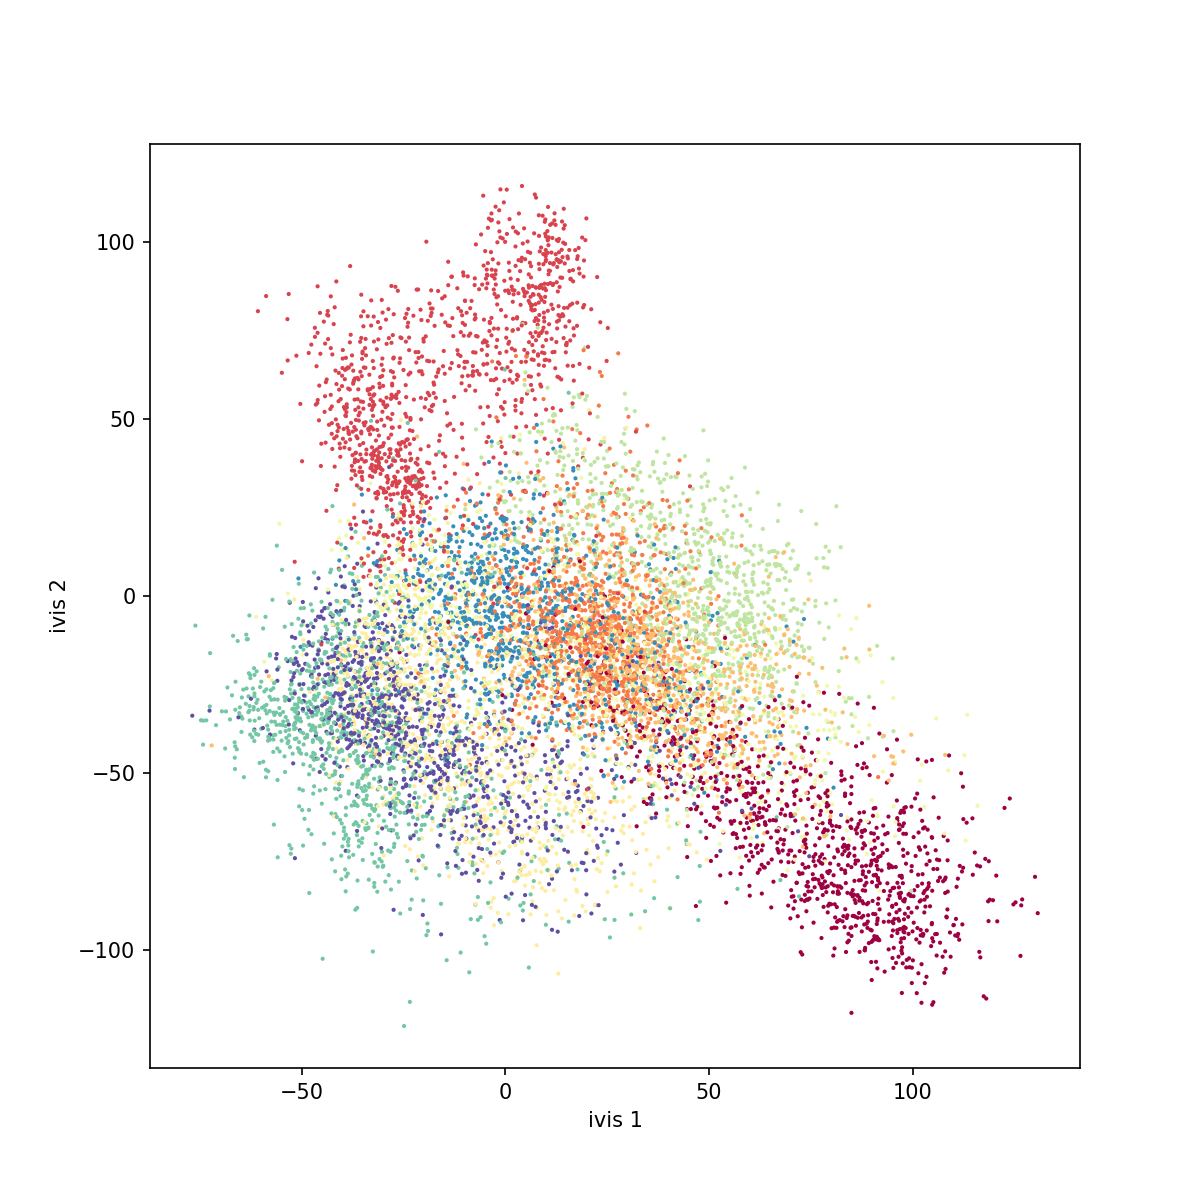
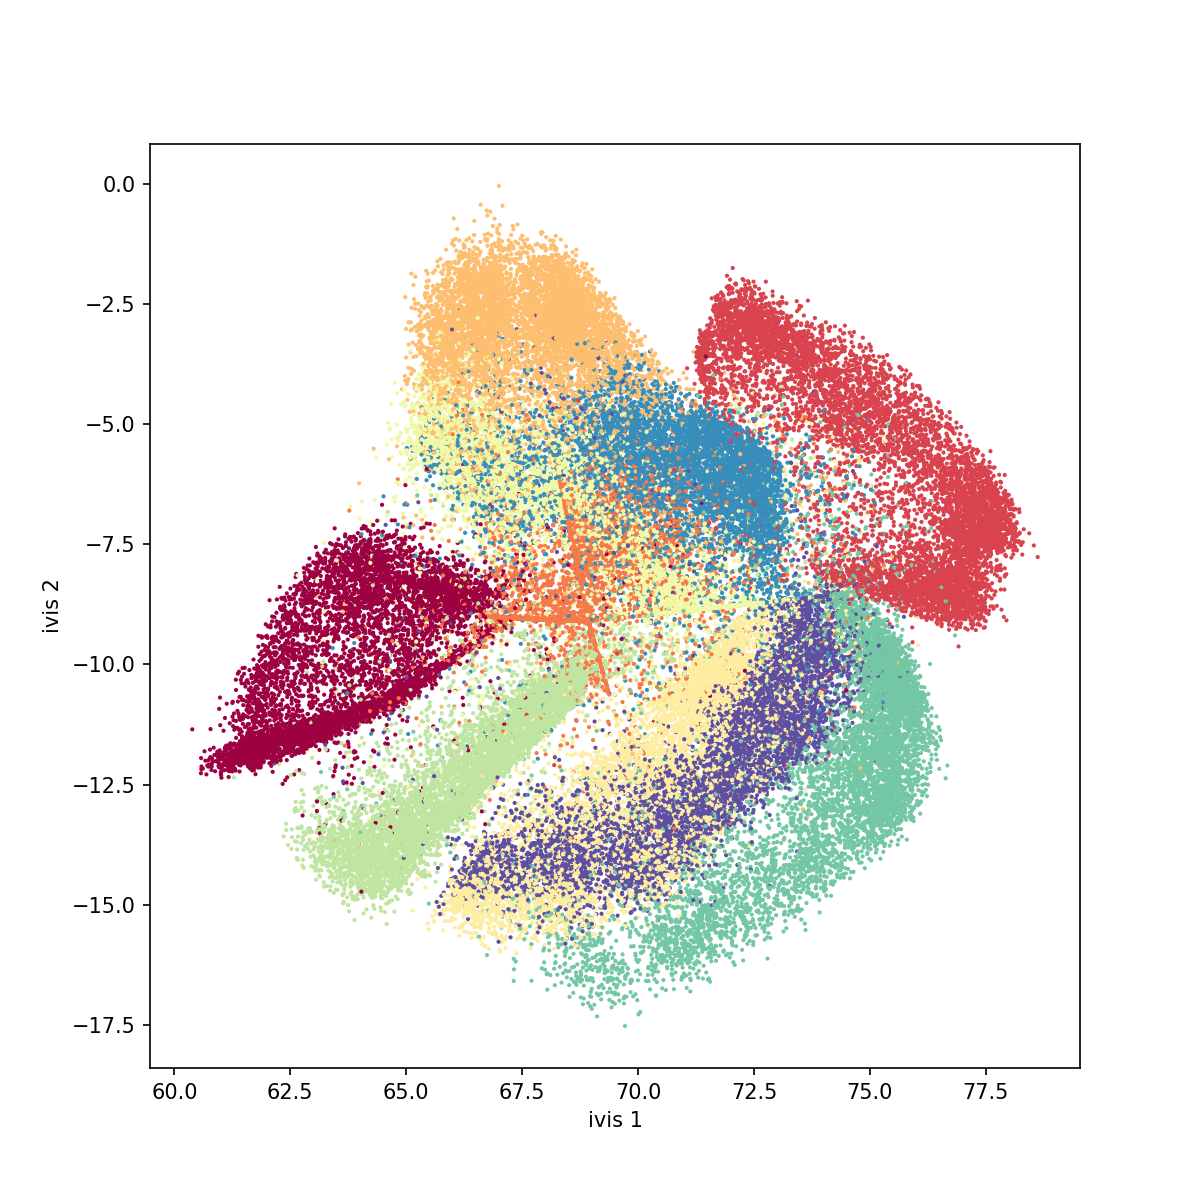
add file

diff --git a/ivis/ivis.py b/ivis/ivis.py
@@ -79,7 +79,7 @@ class Ivis(BaseEstimator):
     """
 
     def __init__(self, embedding_dims=2, k=150, distance='quad', batch_size=128,
-                 epochs=1, n_epochs_without_progress=50,
+                 epochs=1000, n_epochs_without_progress=50,
                  margin1=1, margin2=0.5, ntrees=50, search_k=-1,
                  precompute=True, model='default',
                  classification_weight=0.5, annoy_index_path=None,

diff --git a/examples/mnist.py b/examples/mnist.py
@@ -17,7 +17,7 @@ from ivis.ivis import Ivis
 
 mnist = fetch_openml('mnist_784', version=1)
 ivis = Ivis(model='maaten', verbose=1)
-n = 10000
+n = 70000
 data = mnist.data[:n, :]
 embeddings = ivis.fit_transform(data)
 
